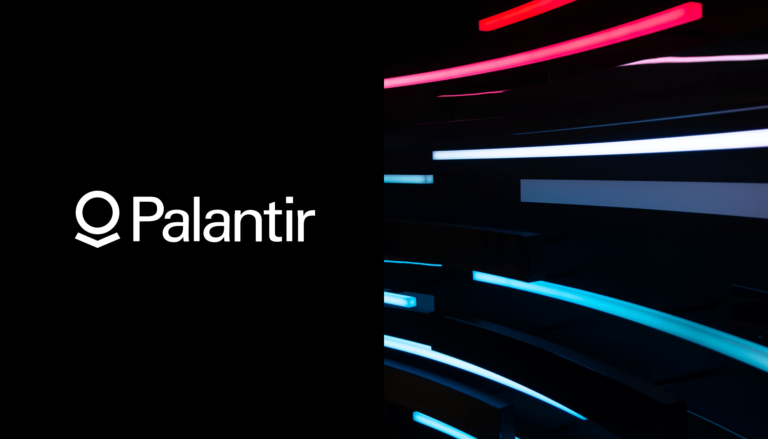
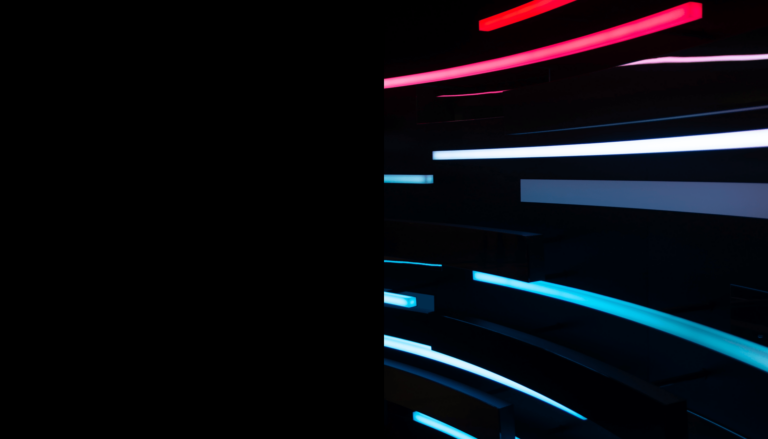
refactor layout

Changed region(s): [[0.0938, 0.4146, 0.4062, 0.5626]]

diff --git a/infra/fly/website/index.html b/infra/fly/website/index.html
@@ -3,22 +3,22 @@
 <head>
     <meta charset="utf-8">
     <meta name="viewport" content="width=device-width, initial-scale=1.0">
-    <meta name="description" content="Learn to code. Start your engineering career with a software apprenticeship.">
+    <meta name="description" content="Become a certified Palantir Foundry engineer.">
     <!-- Facebook Meta Tags -->
     <meta property="og:url" content="http://codestrap.me/">
     <meta property="og:type" content="website">
     <meta property="og:title" content="CodeStrap.me">
-    <meta property="og:description" content="Learn to code. Start your engineering career with a software apprenticeship.">
-    <meta property="og:image" content="http://codestrap.me/img/rockets.png">
+    <meta property="og:description" content="Learn Palantir Foundry. Help Reboot Western Economies with Software that Works!">
+    <meta property="og:image" content="http://codestrap.me/img/palantir-foundry-hbo.png">
     <meta property="og:image:type" content="image/png" />
     <!-- Twitter Meta Tags -->
     <meta name="twitter:card" content="summary_large_image">
     <meta property="twitter:domain" content="codestrap.me">
     <meta property="twitter:url" content="http://codestrap.me/">
     <meta name="twitter:title" content="CodeStrap.me">
-    <meta name="twitter:description" content="Learn to code. Start your engineering career with a software apprenticeship.">
-    <meta name="twitter:image" content="http://codestrap.me/img/rockets.png">
-    <title>Learn to code and enter a software apprenticeship.</title>
+    <meta name="twitter:description" content="Learn Palantir Foundry. Help Reboot Western Economies with Software that Works!">
+    <meta name="twitter:image" content="http://codestrap.me/img/palantir-foundry-hbo.png">
+    <title>Become a certified Palantir Foundry engineer.</title>
     <link rel="icon" type="image/x-icon" href="favicon.ico">
     <link rel="stylesheet" href="css/pure-min.css">
     <link rel="stylesheet" href="css/grids-responsive-min.css">
@@ -36,7 +36,7 @@
         <ul class="pure-menu-list">
             <!--<li class="pure-menu-item pure-menu-selected"><a href="/program/software-apprenticeship-programs-curriculum.html" class="pure-menu-link">Students</a></li>
             <li class="pure-menu-item pure-menu-selected"><a href="#" class="pure-menu-link">Employers</a></li>-->
-            <li><a href="https://github.com/doriansmiley/codestrap-programs" class="git"><span style="display: none">GitHub</span></a></li>
+            <li><a href="https://github.com/doriansmiley/codestrap-programs/blob/main/apprenticeships/foundry-public-certification-training/README.md" class="git"><span style="display: none">GitHub</span></a></li>
         </ul>
     </div>
 </div>
@@ -50,6 +50,7 @@
         <p>
             <a href="program/software-apprenticeship-programs-curriculum.html" class="pure-button pure-button-primary">Get Started</a>
         </p>
+        <img src="./img/pltr_logo_white.png" />
     </div>
 </div>
 
@@ -76,7 +77,7 @@
                 </h3>
                 <p>
                     Learn to master Palantir Foundry and AIP using only a web browser and your free Foundry stack. 
-                    Pay only for your certifications and corse fees.
+                    Pay only for your certifications and course fees.
                 </p>
             </div>
             <div class="l-box pure-u-1 pure-u-md-1-2 pure-u-lg-1-4">

diff --git a/infra/fly/website/program/software-apprenticeship-programs-curriculum.html b/infra/fly/website/program/software-apprenticeship-programs-curriculum.html
@@ -3,22 +3,22 @@
 <head>
     <meta charset="utf-8">
     <meta name="viewport" content="width=device-width, initial-scale=1.0">
-    <meta name="description" content="Learn to code. Start your engineering career with a software apprenticeship.">
+    <meta name="description" content="Become a certified Palantir Foundry engineer.">
     <!-- Facebook Meta Tags -->
     <meta property="og:url" content="http://codestrap.me/">
     <meta property="og:type" content="website">
     <meta property="og:title" content="CodeStrap.me">
-    <meta property="og:description" content="Learn to code. Start your engineering career with a software apprenticeship.">
-    <meta property="og:image" content="http://codestrap.me/img/rockets.png">
+    <meta property="og:description" content="Learn Palantir Foundry. Help Reboot Western Economies with Software that Works!">
+    <meta property="og:image" content="http://codestrap.me/img/palantir-foundry-hbo.png">
     <meta property="og:image:type" content="image/png" />
     <!-- Twitter Meta Tags -->
     <meta name="twitter:card" content="summary_large_image">
     <meta property="twitter:domain" content="codestrap.me">
     <meta property="twitter:url" content="http://codestrap.me/">
     <meta name="twitter:title" content="CodeStrap.me">
-    <meta name="twitter:description" content="Learn to code. Start your engineering career with a software apprenticeship.">
-    <meta name="twitter:image" content="http://codestrap.me/img/rockets.png">
-    <title>Learn to code and enter a software apprenticeship.</title>
+    <meta name="twitter:description" content="Learn Palantir Foundry. Help Reboot Western Economies with Software that Works!">
+    <meta name="twitter:image" content="http://codestrap.me/img/palantir-foundry-hbo.png">
+    <title>Become a certified Palantir Foundry engineer.</title>
     <link rel="icon" type="image/x-icon" href="../favicon.ico">
     <link rel="stylesheet" href="../css/pure-min.css">
     <link rel="stylesheet" href="../css/grids-responsive-min.css">
@@ -36,7 +36,7 @@
         <ul class="pure-menu-list">
             <!--<li class="pure-menu-item pure-menu-selected"><a href="/program/software-apprenticeship-programs-curriculum.html" class="pure-menu-link">Students</a></li>
             <li class="pure-menu-item pure-menu-selected"><a href="#" class="pure-menu-link">Employers</a></li>-->
-            <li><a href="https://github.com/doriansmiley/codestrap-programs" class="git"><span style="display: none">GitHub</span></a></li>
+            <li><a href="https://github.com/doriansmiley/codestrap-programs/blob/main/apprenticeships/foundry-public-certification-training/README.md" class="git"><span style="display: none">GitHub</span></a></li>
         </ul>
     </div>
 </div>

diff --git a/infra/fly/website/css/styles.css b/infra/fly/website/css/styles.css
@@ -170,26 +170,34 @@ p a {
 .splash-container {
     background: url("../img/palantir-foundry-hbo.png") top center;
     background-size: cover;
+    opacity: .9;
+    background-color: black;
     z-index: 1;
     overflow: hidden;
     /* The following styles are required for the "scroll-over" effect */
-    width: 100%;
-    height: 88%;
+    width: 100vw;
+    height: 88vh;
     top: 0;
     left: 0;
-    opacity: .9;
+    display: flex;
+    flex-direction: column;
+    justify-content: flex-start; /* Aligns items at the bottom */
+    align-items: center; /* Aligns items to the center horizontally */
     position: fixed !important;
 }
 
 .splash {
     /* absolute center .splash within .splash-container */
-    width: 80%;
-    height: 50%;
-    margin: auto;
-    position: absolute;
-    top: 100px; left: 0; bottom: 0; right: 0;
+    width: 80vw;
+    height: 100vh; /* Full viewport height to demonstrate the alignment */
+    margin-top: 100px;
     text-align: center;
     text-transform: uppercase;
+}
+
+.splash img {
+    width: 20vw;
+    max-width: 100px;
 }
 
 /* This is the main heading that appears on the blue section */
@@ -220,8 +228,8 @@ p a {
     /* These styles are required for the "scroll-over" effect */
     position: absolute;
     top: 87%;
-    width: 100%;
-    min-height: 12%;
+    width: 100vw;
+    min-height: 12vh;
     z-index: 2;
     background: white;
 
@@ -234,6 +242,10 @@ p a {
 /* We want to give the content area some more padding */
 .content {
     padding: 1em 1em 3em;
+}
+
+.content img {
+    width: 20vw;
 }
 
 /* This is the class used for the main content headers (<h2>) */
